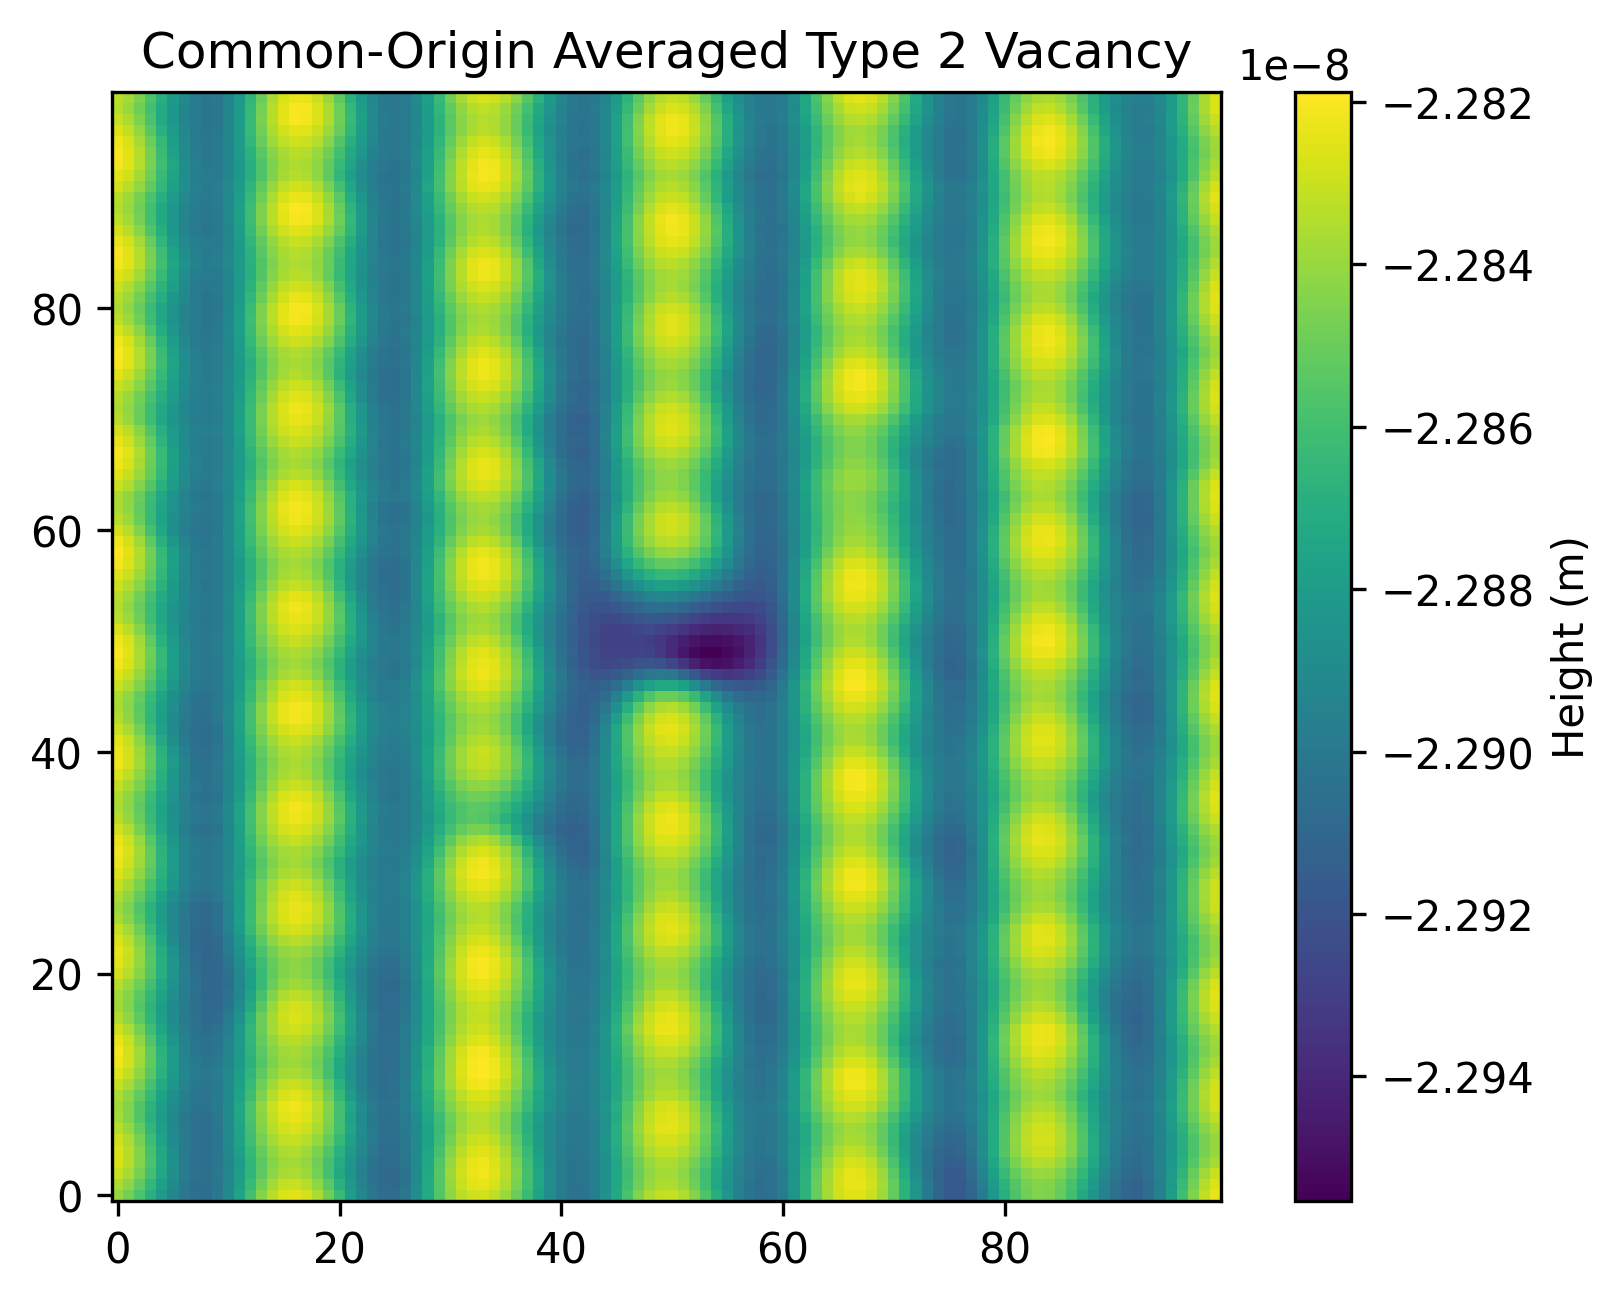
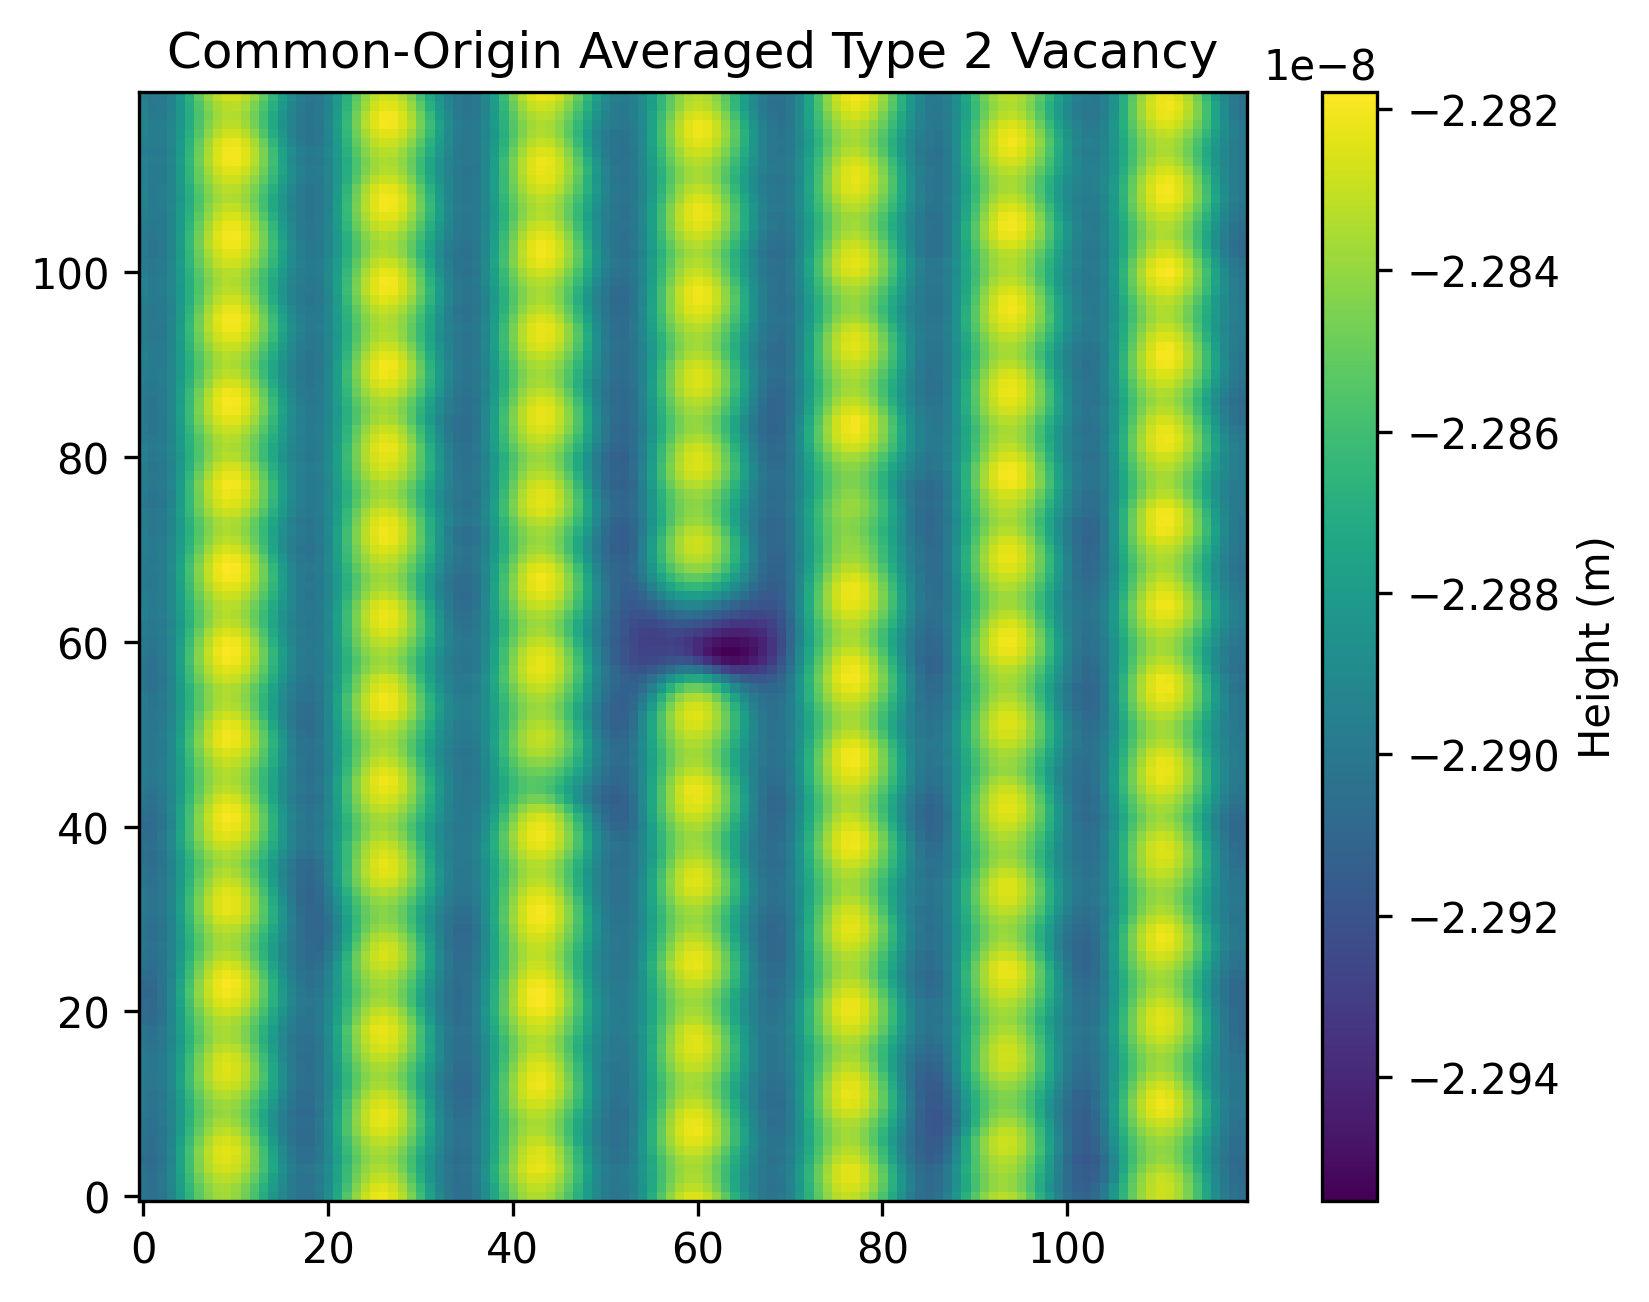
FFT analysis of vacancies

diff --git a/experiment_scripts/post_cleanup_vacancies.py b/experiment_scripts/post_cleanup_vacancies.py
@@ -4,7 +4,7 @@ import xarray as xr
 
 
 topograph_file = "experimental_data/topograph.sxm"
-window_size = 100  # pixels (must be even)
+window_size = 120  # pixels (must be even)
 half = window_size // 2
 
 
@@ -143,16 +143,25 @@ average_defect = np.mean(aligned_windows, axis=0)
 average_defect_type2 = np.mean(aligned_windows_type2, axis=0) if len(aligned_windows_type2) > 0 else None
 
 
+
+# Plot and save averaged type 1 vacancy
 fig, ax = plt.subplots()
 im = ax.imshow(average_defect, origin="lower", cmap="viridis")
-
-
 ax.set_title("Common-Origin Averaged Type 1 Vacancy")
 fig.colorbar(im, ax=ax, label="Height (m)")
 plt.savefig("experiment_output/average_defect_type_1.png", bbox_inches="tight", dpi=300)
 plt.show()
 
-# Plot for type 2 vacancies
+# Fourier transform of averaged type 1 vacancy
+fft1 = np.fft.fftshift(np.fft.fft2(average_defect))
+fft1_mag = np.abs(fft1)
+fig_fft1, ax_fft1 = plt.subplots()
+ax_fft1.imshow(np.log(fft1_mag + 1e-12), origin="lower", cmap="viridis")
+ax_fft1.set_title("FFT Magnitude (Type 1 Vacancy)")
+plt.savefig("experiment_output/average_defect_type_1_fft.png", bbox_inches="tight", dpi=300)
+plt.close(fig_fft1)
+
+# Plot and save averaged type 2 vacancy
 if average_defect_type2 is not None:
     fig2, ax2 = plt.subplots()
     im2 = ax2.imshow(average_defect_type2, origin="lower", cmap="viridis")
@@ -160,3 +169,33 @@ if average_defect_type2 is not None:
     fig2.colorbar(im2, ax=ax2, label="Height (m)")
     plt.savefig("experiment_output/average_defect_type2.png", bbox_inches="tight", dpi=300)
     plt.show()
+
+    # Fourier transform of averaged type 2 vacancy
+    fft2 = np.fft.fftshift(np.fft.fft2(average_defect_type2))
+    fft2_mag = np.abs(fft2)
+    fig_fft2, ax_fft2 = plt.subplots()
+    ax_fft2.imshow(np.log(fft2_mag + 1e-12), origin="lower", cmap="viridis")
+    ax_fft2.set_title("FFT Magnitude (Type 2 Vacancy)")
+    plt.savefig("experiment_output/average_defect_type_2_fft.png", bbox_inches="tight", dpi=300)
+    plt.close(fig_fft2)
+
+    # Take log of FFT magnitudes to compress dynamic range
+    log_fft1_mag = np.log(fft1_mag + 1e-12)
+    log_fft2_mag = np.log(fft2_mag + 1e-12)
+
+    # Normalize log-FFTs using global min and max
+    global_min = min(np.min(log_fft1_mag), np.min(log_fft2_mag))
+    global_max = max(np.max(log_fft1_mag), np.max(log_fft2_mag))
+    log_fft1_mag_norm = (log_fft1_mag - global_min) / (global_max - global_min + 1e-12)
+    log_fft2_mag_norm = (log_fft2_mag - global_min) / (global_max - global_min + 1e-12)
+
+    # Take the difference
+    fft_diff = log_fft1_mag_norm - log_fft2_mag_norm
+
+    # Plot and save the difference
+    fig_diff, ax_diff = plt.subplots()
+    im_diff = ax_diff.imshow(fft_diff, origin="lower", cmap="bwr", vmin=-1, vmax=1)
+    ax_diff.set_title("Log-Scaled FFT Magnitude Difference (Type 1 - Type 2)")
+    fig_diff.colorbar(im_diff, ax=ax_diff, label="Normalized Log Difference")
+    plt.savefig("experiment_output/fft_magnitude_difference.png", bbox_inches="tight", dpi=300)
+    plt.close(fig_diff)
